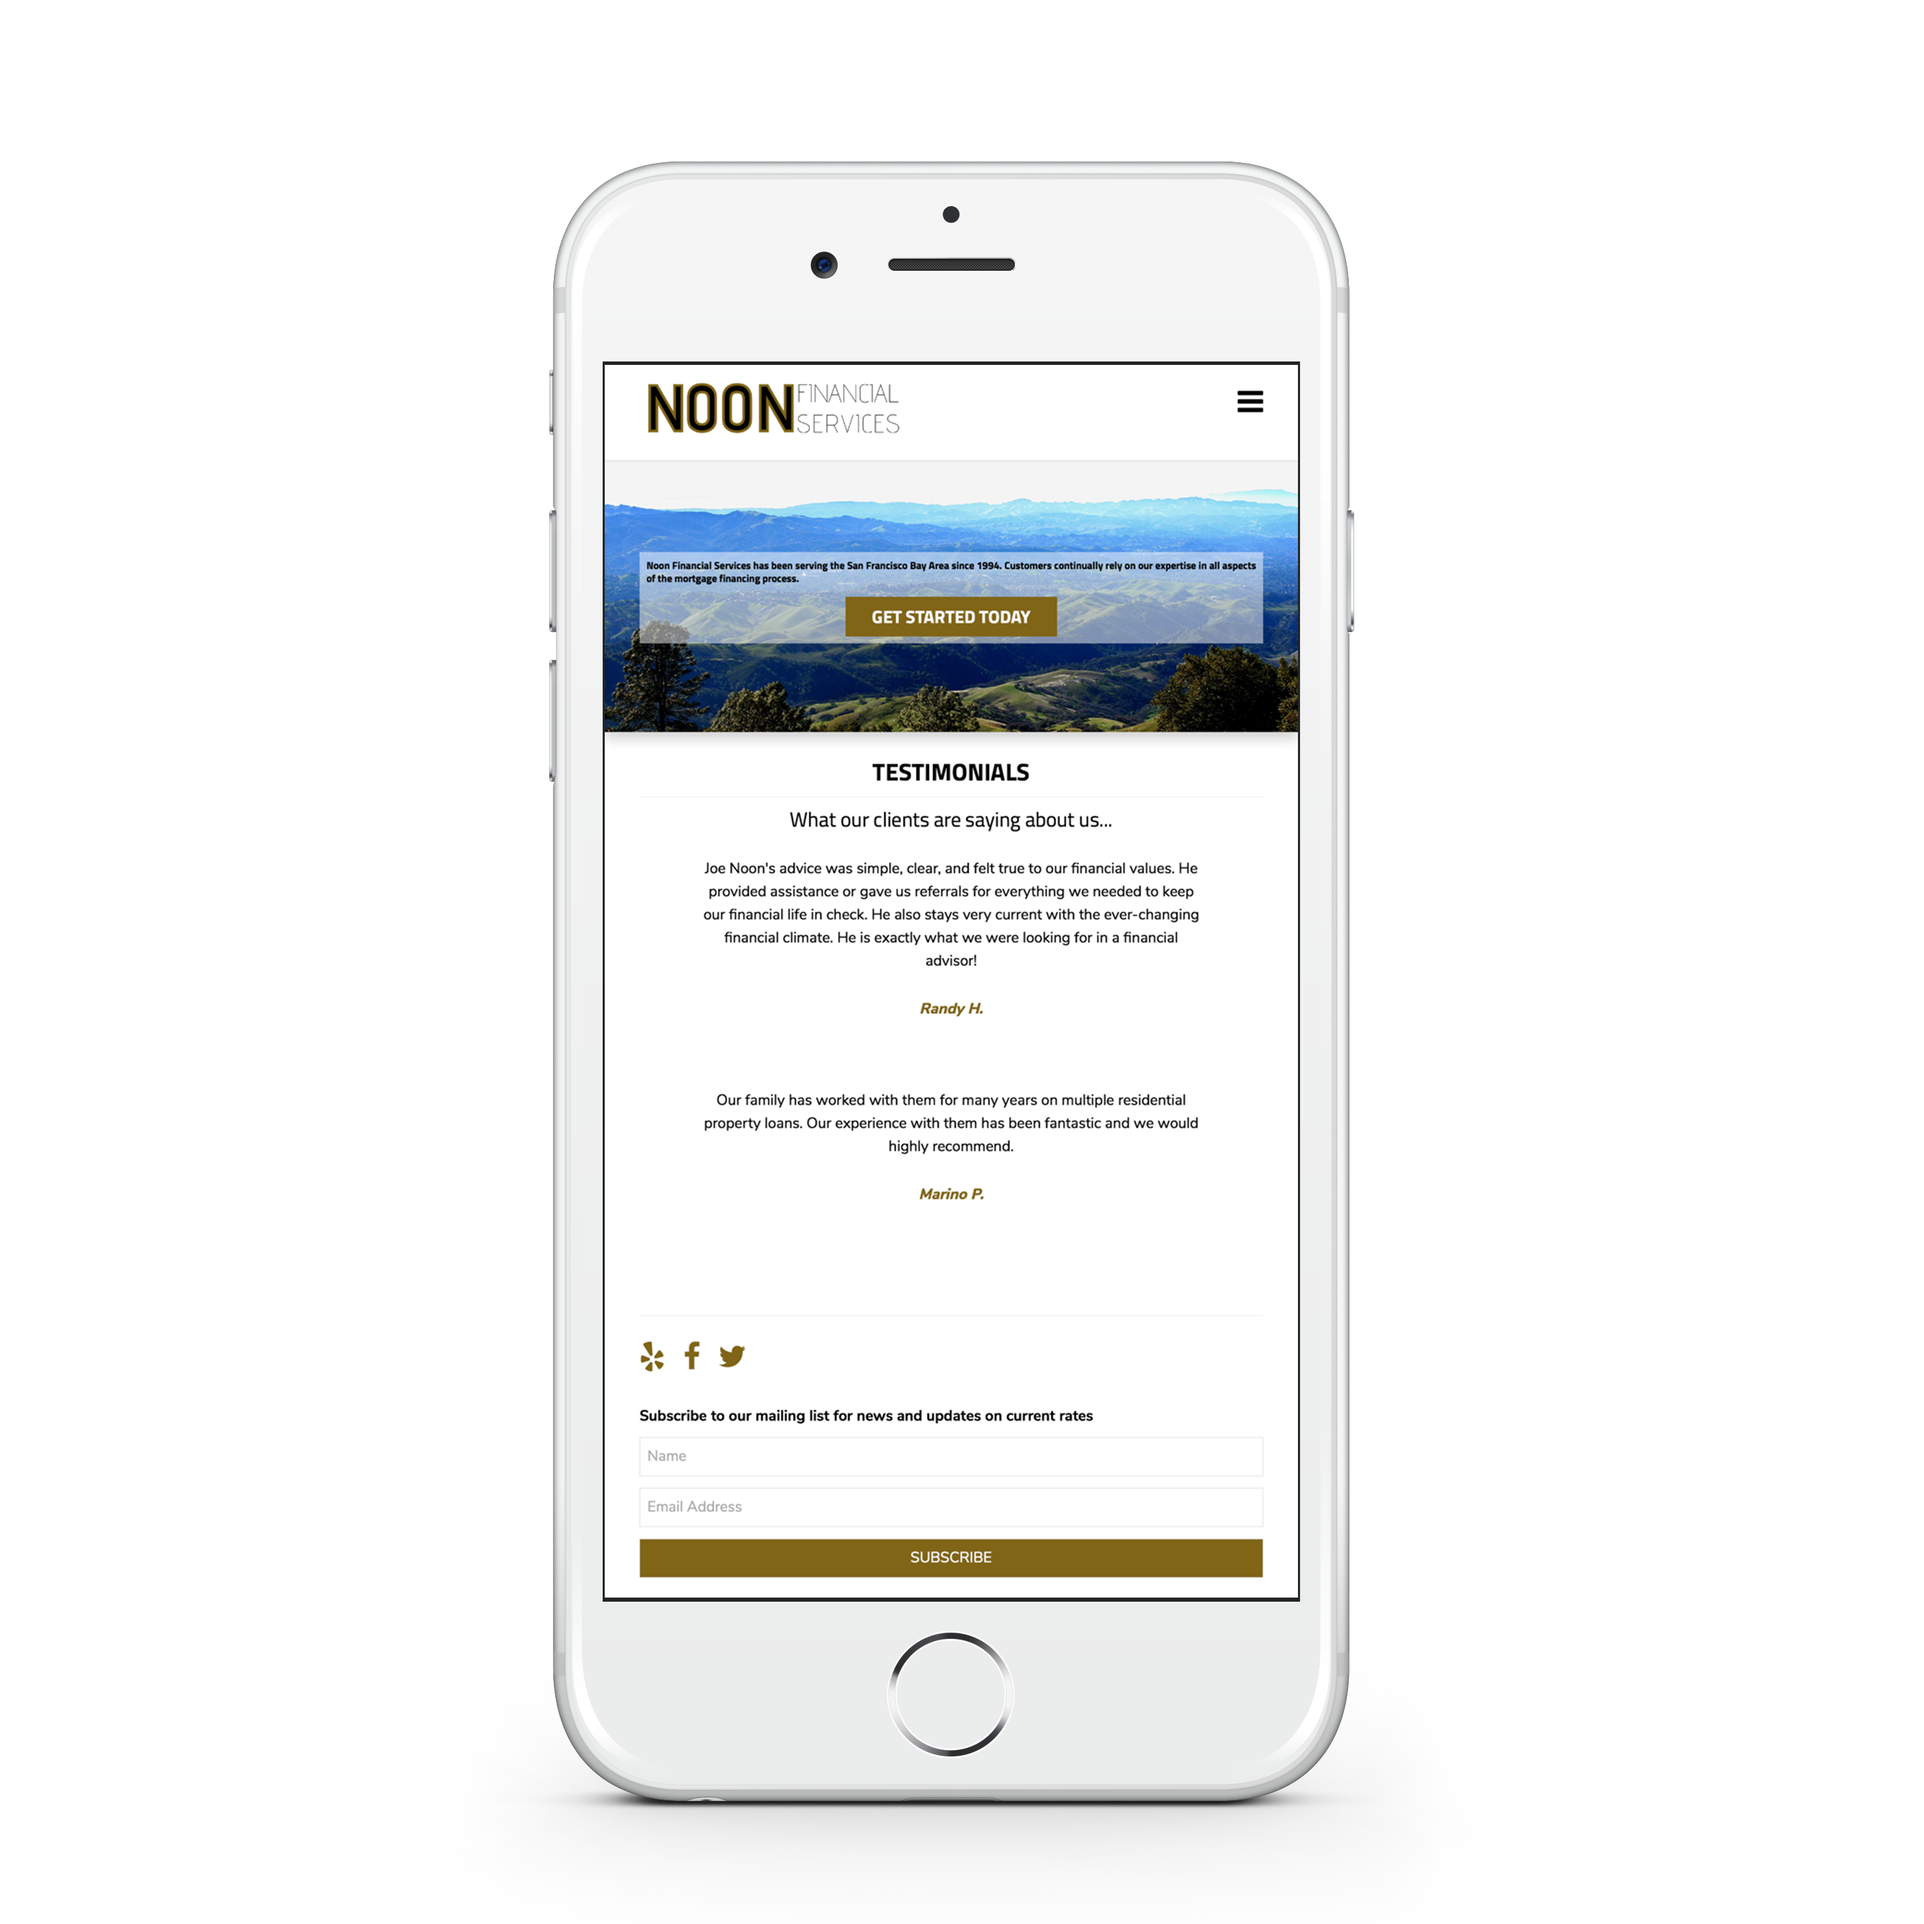
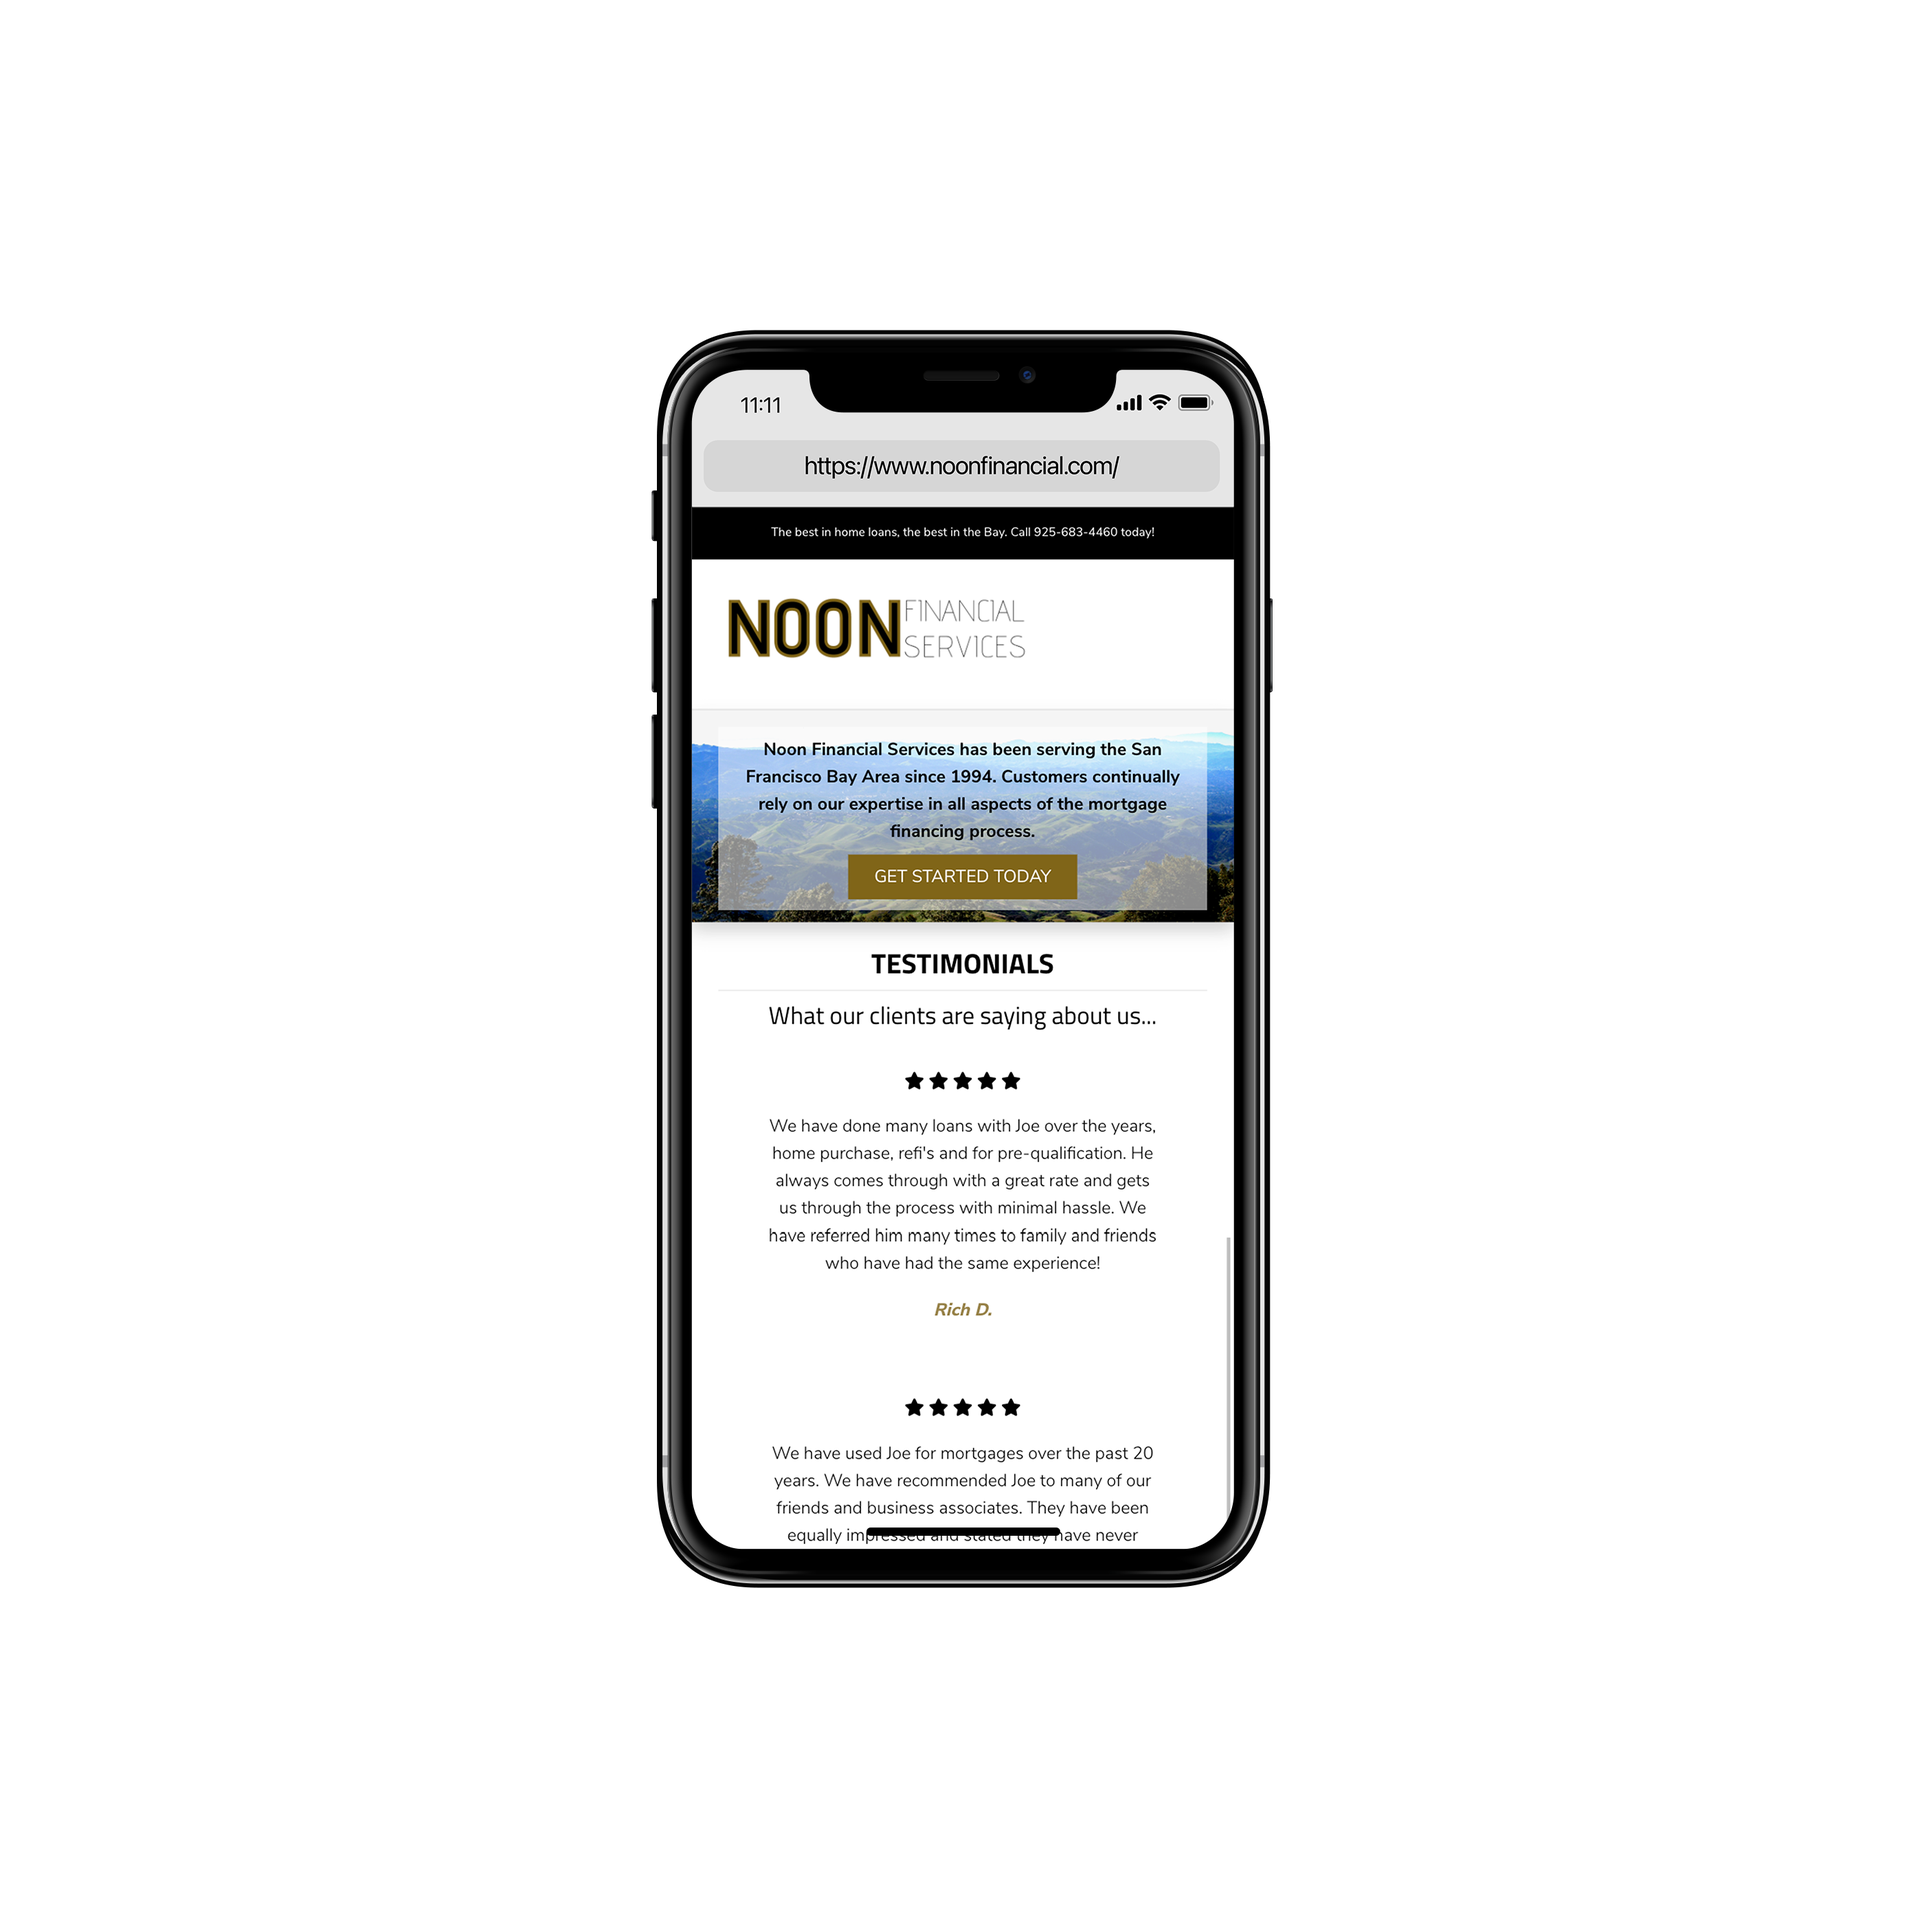
update portfolio images

Changed region(s): [[0.2796, 0.0932, 0.7146, 0.9632], [0.3418, 0.0621, 0.6525, 0.0932]]

diff --git a/source/assets/stylesheets/site.css.scss b/source/assets/stylesheets/site.css.scss
@@ -19,8 +19,8 @@ body {
 
 main {
   clear: both;
-  width: 90%;
-  margin: 1% auto;
+  width: 80%;
+  margin: 1rem auto;
 }
 
 ul li {
@@ -102,7 +102,7 @@ header#global-header {
 
 .wrap {
   margin: 0 auto;
-  width: 90%;
+  width: 80%;
 }
 
 #contact {
@@ -138,9 +138,9 @@ header#global-header {
 footer {
   border-top: 0.1rem solid rgba($black,0.1);
   margin: 0 auto;
-  padding: 2% 0;
+  padding: 2rem 0;
   text-align: center;
-  width: 90%;
+  width: 80%;
 }
 
 .action {
@@ -185,9 +185,9 @@ footer {
 h2#page-heading {
   border-bottom: 0.1rem solid rgba($black,0.1);
   color: $purple;
-  font: 700 210%/1.6 "Roboto", "Helvetica Neue", Helvetica, Arial, sans-serif;
-  margin: 0 0 1% 0;
-  padding: 1% 0;
+  font: 700 2.2rem/1.6 "Roboto", "Helvetica Neue", Helvetica, Arial, sans-serif;
+  margin: 0 0 2rem 0;
+  padding: 2rem 0;
   text-align: center;
   text-transform: uppercase;
 }
@@ -196,7 +196,7 @@ h2#page-heading {
   background: $white;
   border: 0.05rem solid $grey;
   box-shadow: 0 0.5em 1em rgba($black,0.2);
-  height: 16em;
+  height: 35.6rem;
   overflow: hidden;
   position: relative;
   img {
@@ -235,14 +235,14 @@ h2#page-heading {
 
 .toggle-nav {
   color: $white;
-  font-size: 200%;
+  font-size: 2rem;
   float: right;
 }
 
 nav.menu {
   a {
     color: $white;
-    font-size: 150%;
+    font-size: 1.6rem;
   }
   ul.active {
     display: none;

diff --git a/source/assets/stylesheets/_grid.scss b/source/assets/stylesheets/_grid.scss
@@ -1,7 +1,7 @@
 /* CSS Grid Layout */
 .grid-container {
   display: grid;
-  grid-template-columns: repeat(3, 1fr);
+  grid-template-columns: repeat(2, 1fr);
   grid-gap: 2rem;
   grid-auto-rows: minmax(16rem, auto);
 }
